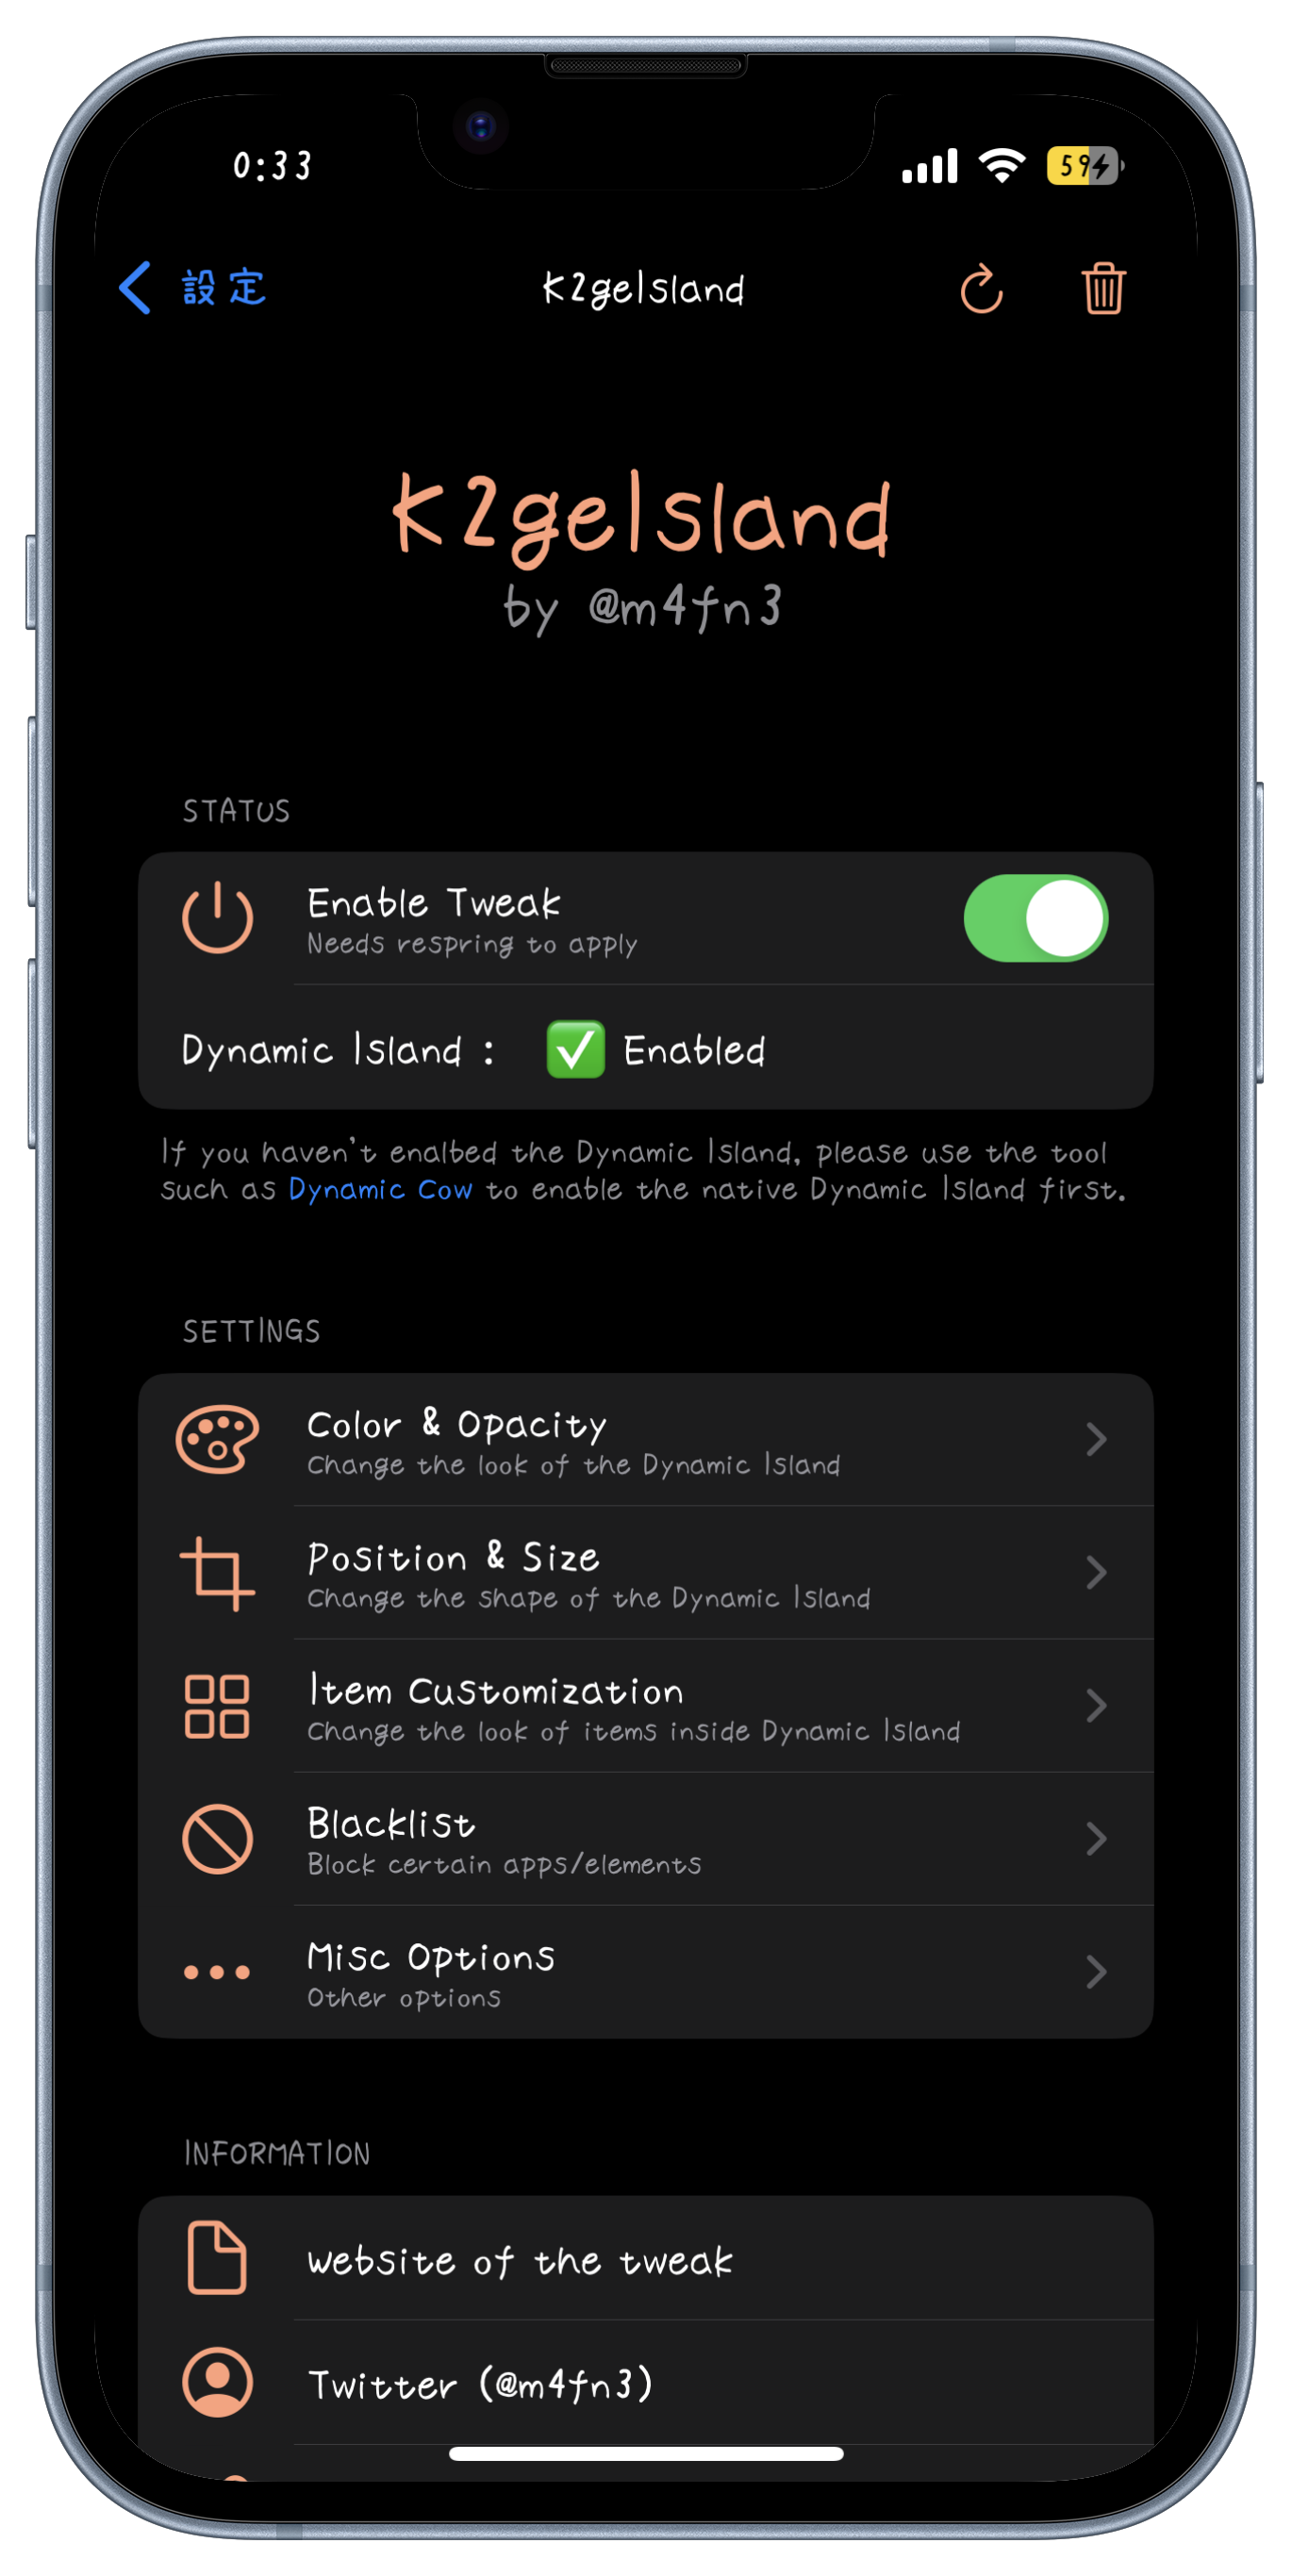
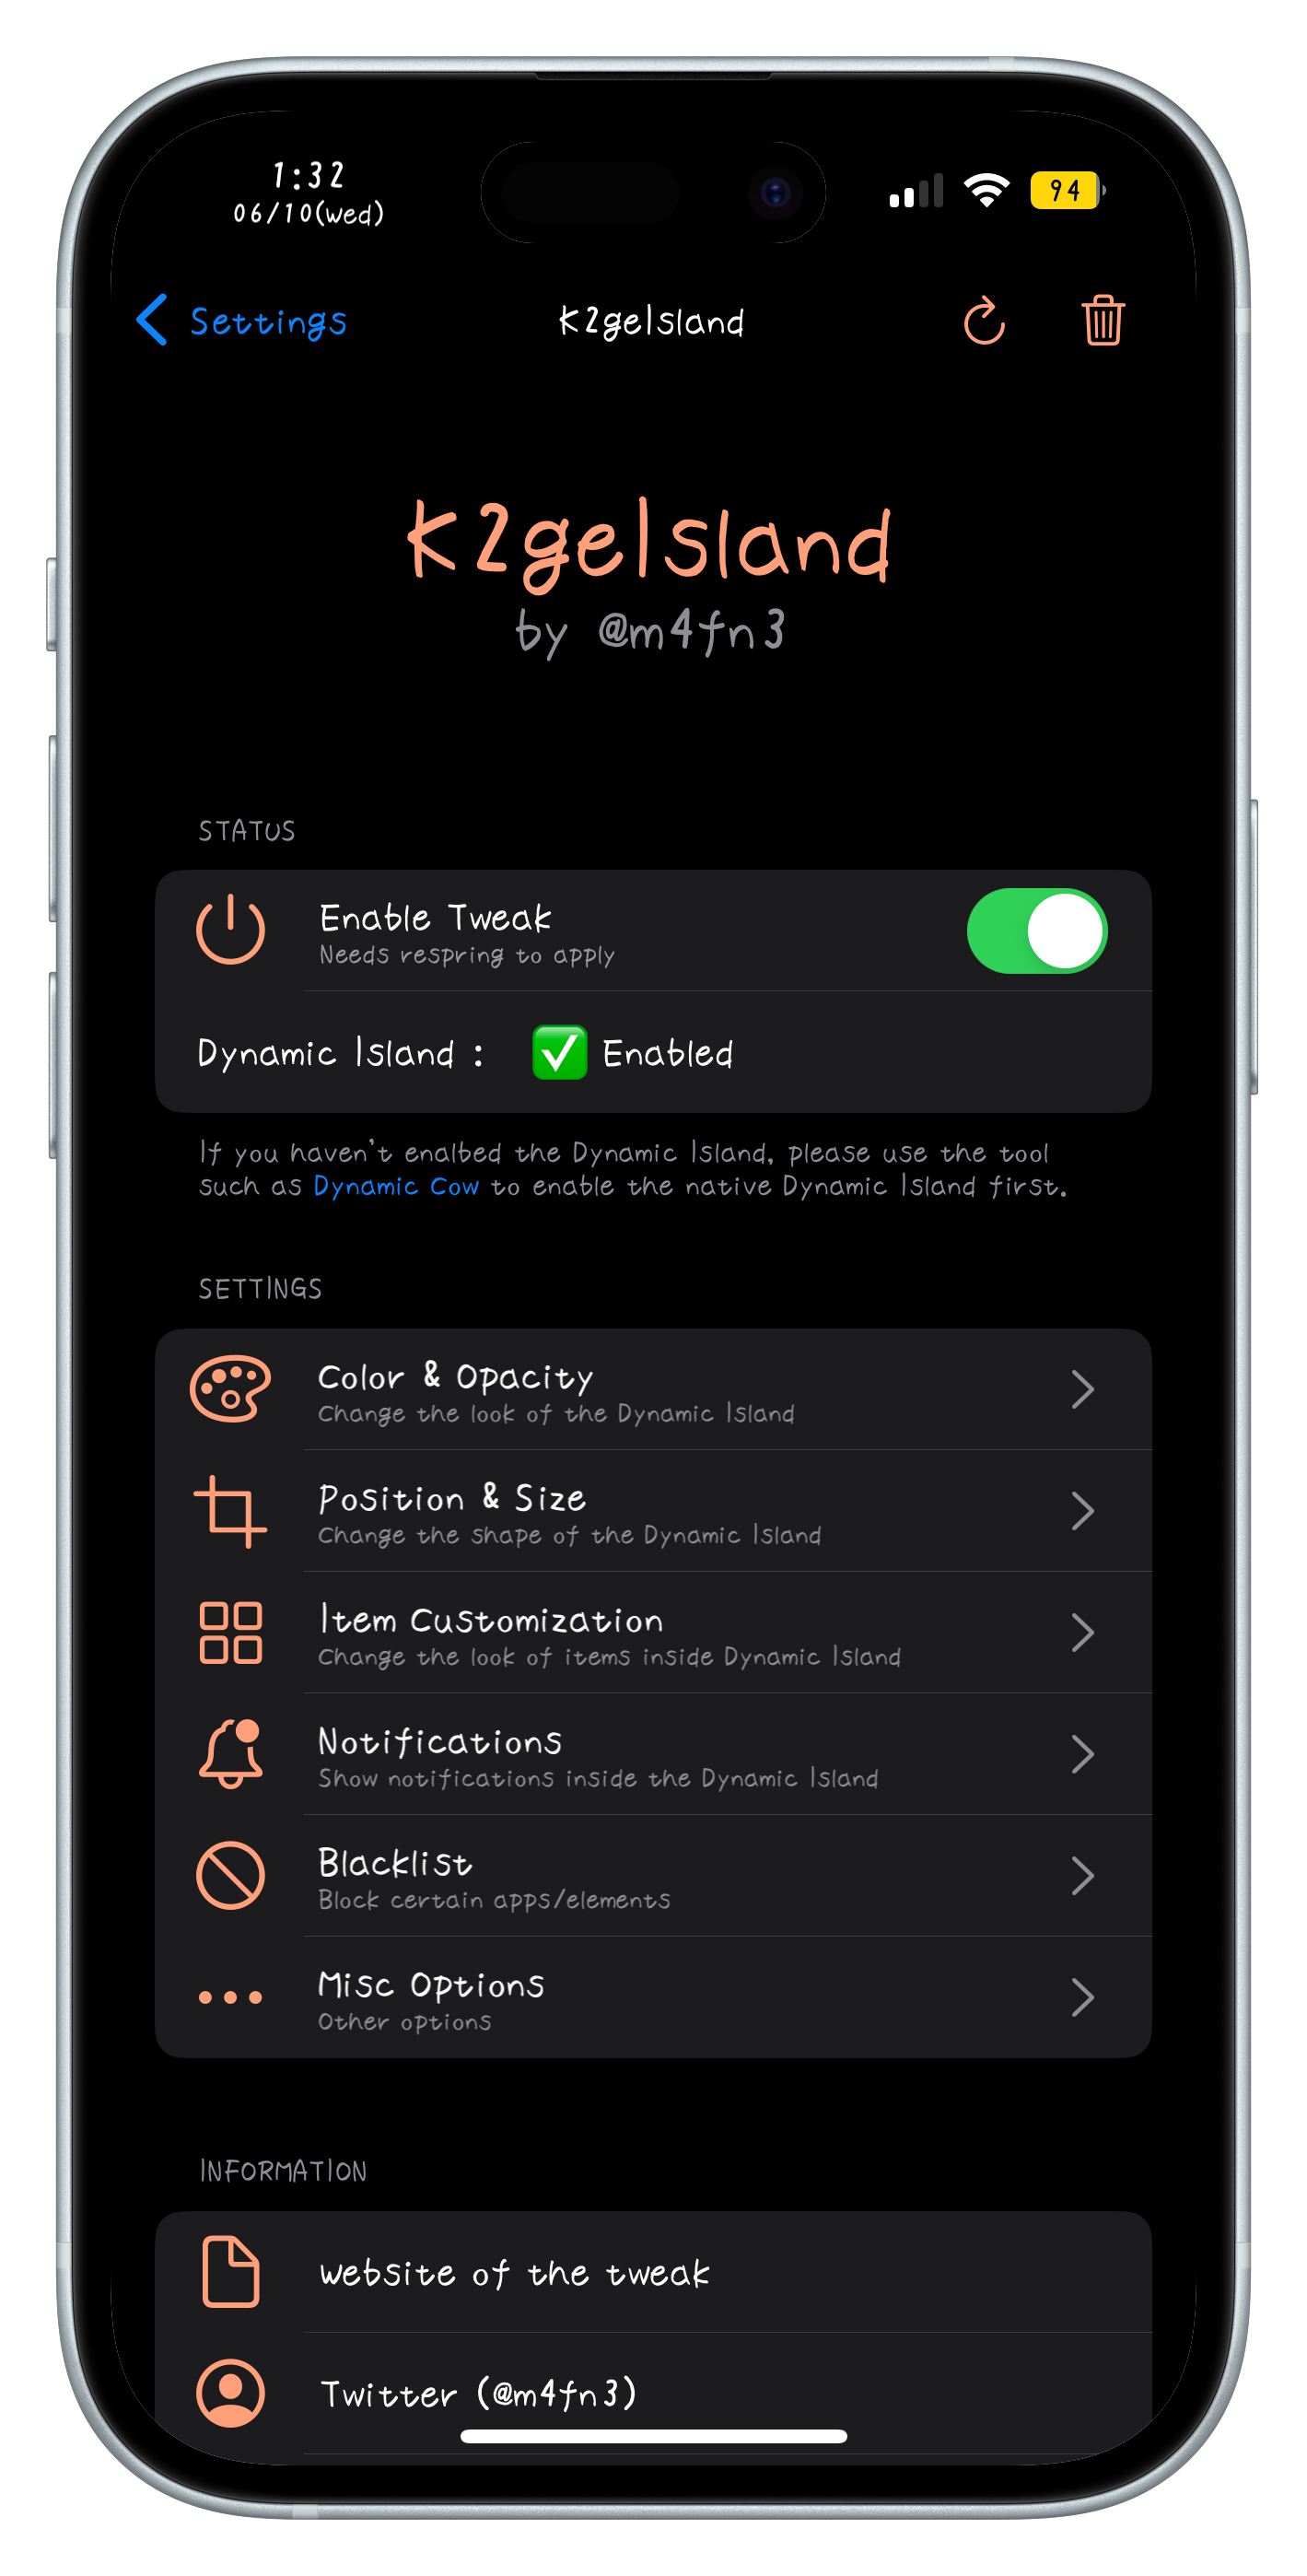
release: K2geIsland v1.0.1

diff --git a/web/K2geIsland.html b/web/K2geIsland.html
@@ -31,7 +31,7 @@
                 <p class="package_desc">Ultimate customization for your Dynamic Island.</p>
             </div>
             <div class="purchase">
-                <p>Price: 600JPY (≒3.99USD)</p>
+                <p>Price: 750JPY (≒4.99USD)</p>
                 <a href="https://ko-fi.com/s/4f5c0a29c0">Buy</a>
             </div>
         </div>
@@ -43,6 +43,8 @@
             <div class="detail_preview_box">
                 <div class="detail_preview">
                     <img src="./images/K2geIsland_preview1.png">
+                </div><div class="detail_preview">
+                    <img src="./images/K2geIsland_preview7.png">
                 </div>
                 <div class="detail_preview">
                     <img src="./images/K2geIsland_preview2.png">
@@ -63,14 +65,14 @@
 
             <h1>Compatibility</h1>
             <p>
-                all iPhones on iOS16 with rootful & rootless & roothide are supported <br>
+                all iPhones on iOS16, 17 with rootful & rootless & roothide are supported <br>
             </p>
 
             <h1>Purchase</h1>
             <p>
                 Click on the 'buy' button next to the price and read the description there carefully.<br>
                 You can buy the tweak using Paypal / Credit Card there.<br>
-                * If you want to buy through Chinese payment methods, you can buy through the intermediary. Please contact me on qq ([phone redacted]) or 微信(m4fn3q).<br>
+                * If you want to buy through Chinese payment methods, you can buy through the intermediary. Please contact the reseller on wechat: henan-0318
             </p>
             <h1>Usage</h1>
             <p>
@@ -86,6 +88,13 @@
             </p>
 
             <h1>Features</h1>
+            <h2>Send notifications to the Dynamic Island!</h2>
+            <p>
+                Incoming notifications are shown right inside the real Dynamic Island, expanding just like Apple's own animation.<br>
+                The layout mimics the native expanded look: the app icon (or a contact avatar with the app badge for messages) sits on the left, the title next to the notch, the time on the other side, the message body underneath, and any attachment thumbnail on the right.<br>
+                Each gesture is configurable — tap to open the app, long press for the quick-reply long look, and swipe down — and you can adjust the display duration along with optional haptic feedback. A test-notification button lets you preview everything live.<br>
+                You can also restyle the banner to your taste: tint the background with the app's dominant color or a static color of your choice, control its opacity, add a Velvet-style glow with adjustable color, width and intensity, and fine-tune the layout (corner radius, top margin, icon / attachment size, font size and body line count).
+            </p>
             <h2>Customize color & opacity dynamically!</h2>
             <p>
                 You can change the color & opacity of Dynamic Island with your preferences.<br> 